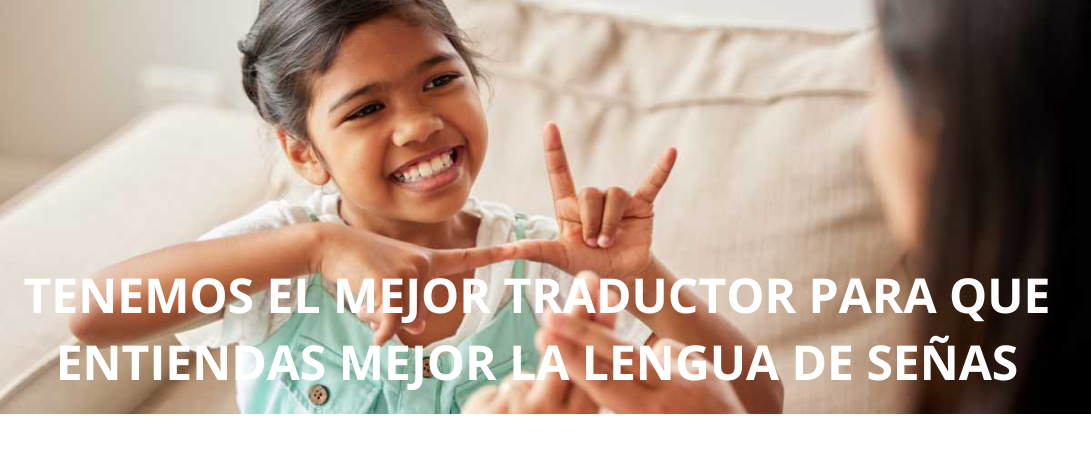
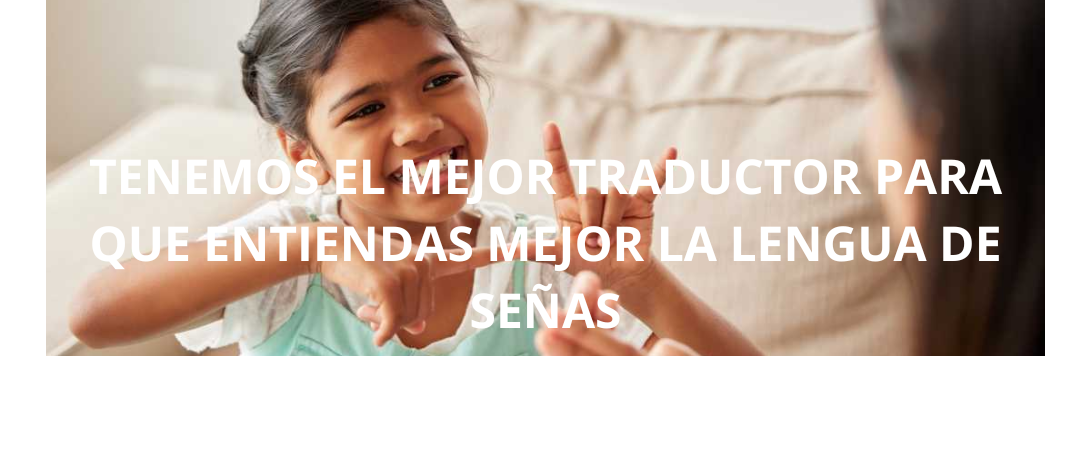
Cambio nav

Changed region(s): [[0.0, 0.0, 1.0, 0.913]]

diff --git a/index.html b/index.html
@@ -35,7 +35,7 @@
         <div id="carouselExampleInterval" class="carousel slide" data-bs-ride="carousel">
             <div class="carousel-inner">
               <div class="carousel-item active" data-bs-interval="10000">
-                <img src="imagenes/datocurioso.jpeg" class="d-block w-100" alt="...">
+                <img src="imagenes/datocurioso.png" class="d-block w-100" alt="...">
               </div>
               <div class="carousel-item" data-bs-interval="2000">
                 <img src="imagenes/SLADE1.png" class="d-block w-100" alt="...">

diff --git a/estilos.css b/estilos.css
@@ -4,7 +4,7 @@ h1 {
 
 
 img{
-    width: 500px;
+    width: 50px;
     display: block;
     margin: auto;
 }
